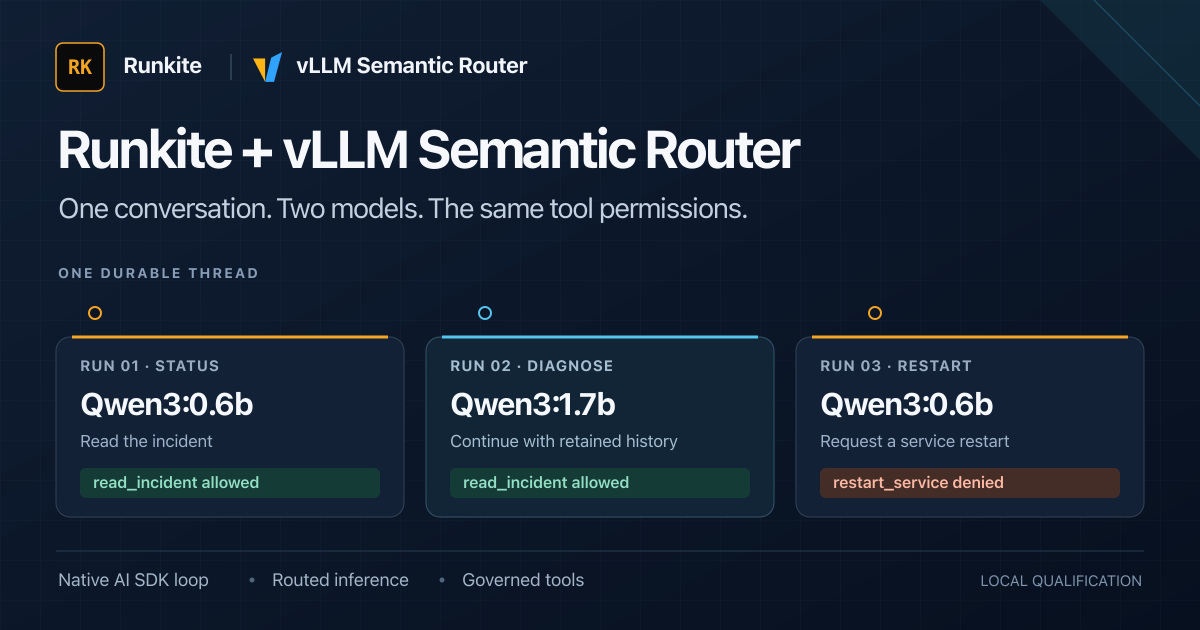
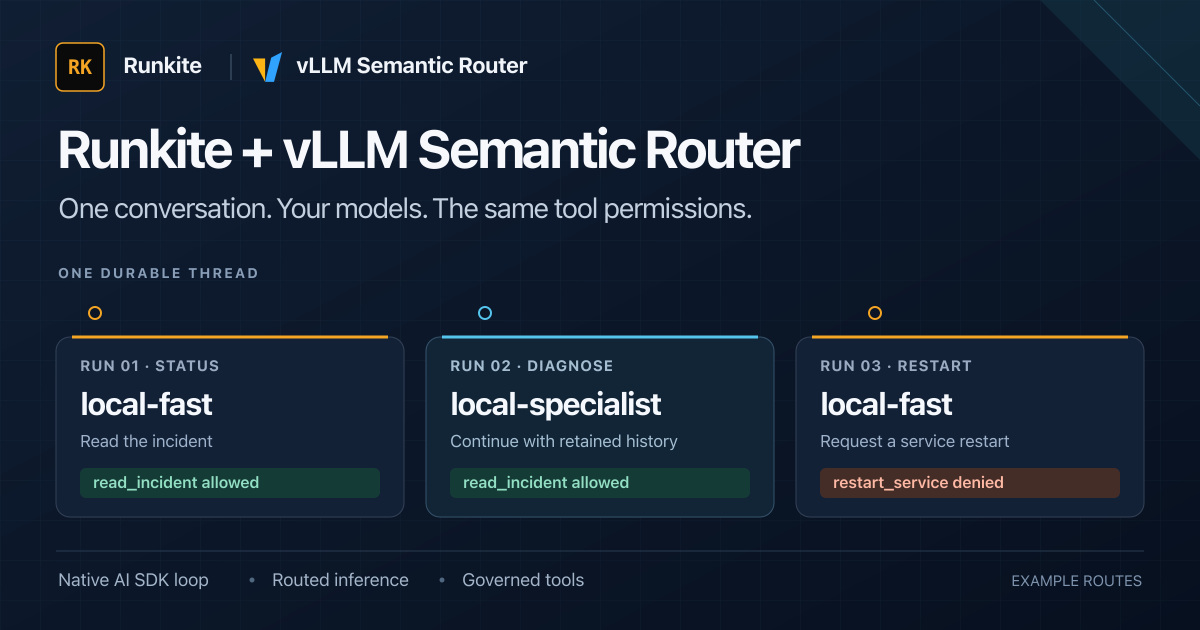
[Docs] Distinguish configurable model backends from the local test
Use route aliases and configured model backends in the general diagrams and hero. Label the Qwen and Ollama evidence as a recorded local example, explain protocol and tool-stream requirements, and preserve the pinned reproduction steps and measured results.

diff --git a/website/blog/2026-11-05-runkite-ai-sdk-semantic-router.md b/website/blog/2026-11-05-runkite-ai-sdk-semantic-router.md
@@ -1,7 +1,7 @@
 ---
 slug: runkite-ai-sdk-semantic-router
 title: "Run Multi-Model AI SDK Agents with Runkite and vLLM Semantic Router"
-description: "Run a native AI SDK agent across two local models with Runkite and vLLM Semantic Router. Preserve chat history and enforce tool permissions."
+description: "Connect a native AI SDK agent to user-configured model backends with Runkite and vLLM Semantic Router. Preserve chat history and enforce tool permissions."
 authors: [sharanharsoor]
 tags: [runkite, ai-sdk, agents, routing, semantic-router, community]
 image: /img/blog/runkite-ai-sdk-semantic-router/hero.jpg
@@ -15,7 +15,7 @@ An incident investigation can begin with a small request: read the incident and 
 
 The conversation has moved from reading to reasoning to acting. Those requests can use different model routes, but changing the model should not change the agent's permission to act. And if the process running the agent restarts along the way, the next question still belongs to the same conversation.
 
-That is the path I wanted to test by connecting **[Runkite](https://getrunkite.com/)** with **vLLM Semantic Router**. Runkite's existing managed Vercel AI SDK runner would execute the agent. Semantic Router would select the model backend for its inference requests. The SDK would keep its native tool loop.
+That is the path I wanted to test by connecting **[Runkite](https://getrunkite.com/)** with **vLLM Semantic Router**. Runkite's existing managed Vercel AI SDK runner would execute the agent. Semantic Router would select the model backend for its inference requests. The SDK would keep its native tool loop. The model pool comes from your router configuration; the Qwen models used below are one reproducible local example.
 
 I followed one conversation through three turns: read an incident, restart the runner and ask for a diagnosis, then request a service restart the agent was forbidden to perform. The incident and tool service are fictional. The model calls, streamed tool requests and durable results are real.
 
@@ -26,7 +26,7 @@ To understand the result, start with what happens between a user's question and 
 <ArticleFigure
   src="/img/blog/runkite-ai-sdk-semantic-router/hero.jpg"
   width={1200} height={630}
-  alt="Runkite and vLLM Semantic Router: one conversation uses two model routes while incident reads are allowed and the service restart is denied."
+  alt="Runkite and vLLM Semantic Router: one conversation follows configured model routes while incident reads are allowed and the service restart is denied."
 />
 
 ## Start with the loop
@@ -53,7 +53,7 @@ Once Runkite has dispatched the run, the SDK's model provider calls Semantic Rou
 <ArticleFigure
   src="/img/blog/runkite-ai-sdk-semantic-router/architecture.svg"
   width={960} height={1200}
-  alt="Managed execution from application to Runkite, then the native AI SDK runner, Semantic Router and Ollama. A separate tool-call branch returns through Runkite's connector gate."
+  alt="Managed execution from application to Runkite, then the native AI SDK runner, Semantic Router and user-configured model backends. A separate tool-call branch returns through Runkite's connector gate."
   diagram
 >
   Read top to bottom: the app starts a run in Runkite, Runkite dispatches the agent, and the agent calls Semantic Router to reach a model. Tool requests return through Runkite's connector gate. The Go plane owns admission and dispatch; inference HTTP originates in the runner. Open the image for full size.
@@ -61,7 +61,9 @@ Once Runkite has dispatched the run, the SDK's model provider calls Semantic Rou
 
 This is **managed execution**: the agent loop runs in a Runkite runner, and the application creates Runkite runs. An existing Next or Nuxt app that keeps its SDK loop inside the app remains a different integration. Runkite's decision-only governance API can govern submitted operations from that app, but it does not turn those calls into managed Threads/Runs.
 
-For the local experiment, the model backends run in **Ollama**. Semantic Router is the routing layer; using it does not require the model backends in this guide to run in the vLLM serving runtime.
+You choose the model backends, local or hosted, within the protocols and capabilities supported by your Semantic Router version and SDK provider. This example uses **Chat Completions with streaming tool calls**. Other compatible models can fill the same routing roles; configure their endpoints, credentials, provider dialect and model options as needed.
+
+For the local experiment, I used two **Qwen** models served by **Ollama** to make the results easy to reproduce. Semantic Router is the routing layer, separate from whichever model-serving system you configure.
 
 ## Connect the existing interfaces
 
@@ -84,12 +86,12 @@ The explicit `.chat(...)` matters. The provider's default model factory uses the
 
 The [full factory](https://gist.github.com/sharanharsoor/84f4dbd4913106d06f8b8156fa8f47a9) also supplies opaque tenant/thread correlation headers and captures selected routing headers and per-call token observations. These identifiers provide correlation, not authentication.
 
-The next step was to give that one endpoint a choice of backends. The model name `vllm-sr/runkite` stays constant in the SDK, while the router configuration maps two backend aliases:
+The next step was to give that one endpoint a choice of backends. The model name `vllm-sr/runkite` stays constant in the SDK. For the recorded local test, the router configuration maps two backend aliases:
 
 - `local-fast` maps to `qwen3:0.6b`.
 - `local-specialist` maps to `qwen3:1.7b`.
 
-Those are configured roles, not measured claims about speed or answer quality. To make the expected routes reproducible, the example uses an explicit keyword signal. Requests containing `diagnose`, `specialist`, `code` or `algorithm` select the specialist route; other requests use the default model.
+These aliases are configuration roles, not fixed model identities or measured claims about speed or answer quality. In your deployment, map routing roles to your own compatible model pool. The two Qwen mappings above describe this test. To make its expected routes reproducible, the example uses an explicit keyword signal. Requests containing `diagnose`, `specialist`, `code` or `algorithm` select the specialist route; other requests use the default model.
 
 The relevant decision is small:
 
@@ -145,15 +147,15 @@ This is why the tool's execution path matters as much as its definition. A nativ
 
 The conversation begins with a catalog service that is degraded after a deployment. In the fixture, HTTP concurrency increased from 10 to 40, all 20 database pool connections are active, and requests are timing out while acquiring a connection. These are fixed fictional observations, so the example is safe to reproduce.
 
-The three turns below follow the same Thread. Each turn creates a new managed Run, giving us a durable record to compare with the model stream and the tool service's counters.
+The three turns below record that local test and follow the same Thread. Each turn creates a new managed Run, giving us a durable record to compare with the model stream and the tool service's counters.
 
 <ArticleFigure
   src="/img/blog/runkite-ai-sdk-semantic-router/conversation.svg"
   width={760} height={846}
-  alt="Recorded conversation: a status read on Qwen 0.6B, a runner restart between completed runs, a diagnostic follow-up on Qwen 1.7B, and a denied restart request on Qwen 0.6B."
+  alt="Recorded local test, using Qwen as example models: a status read on Qwen 0.6B, a runner restart between completed runs, a diagnostic follow-up on Qwen 1.7B, and a denied restart request on Qwen 0.6B."
   diagram
 >
-  One Thread, three managed Runs. The observed model change happens between user turns; this test does not establish model switching between tool steps inside one turn. Open the image for full size.
+  Recorded local test with Qwen: one Thread, three managed Runs. The observed model change happens between user turns; this test does not establish model switching between tool steps inside one turn. Open the image for full size.
 </ArticleFigure>
 
 ### First, read the incident
@@ -261,7 +263,7 @@ docker compose -p runkite-sr-lab -f examples/semantic_router_ai_sdk/compose.yaml
 
 The incident began as a read, became a diagnostic follow-up, and ended with an action the agent was not allowed to take. Across those turns, the model route changed, the runner restarted, and the conversation and connector permissions still had a clear owner.
 
-That gives you a practical starting point for your own agent: choose information it may read and an operation it must not perform. Connect your model pool, choose a routing policy, and check the actual route, the durable conversation and the service that would receive the action.
+That gives you a practical starting point for your own agent: choose information it may read and an operation it must not perform. Replace the example model bindings with your compatible model pool, choose a routing policy, and check the actual route, the durable conversation and the service that would receive the action. Check complete streaming tool calls when changing backends, just as the local test does.
 
 This integration extends the operating model I wanted when I built Runkite: keep the native SDK's agent logic, give model selection to Semantic Router, and keep agent execution and connector authority inspectable on infrastructure you own.
 
